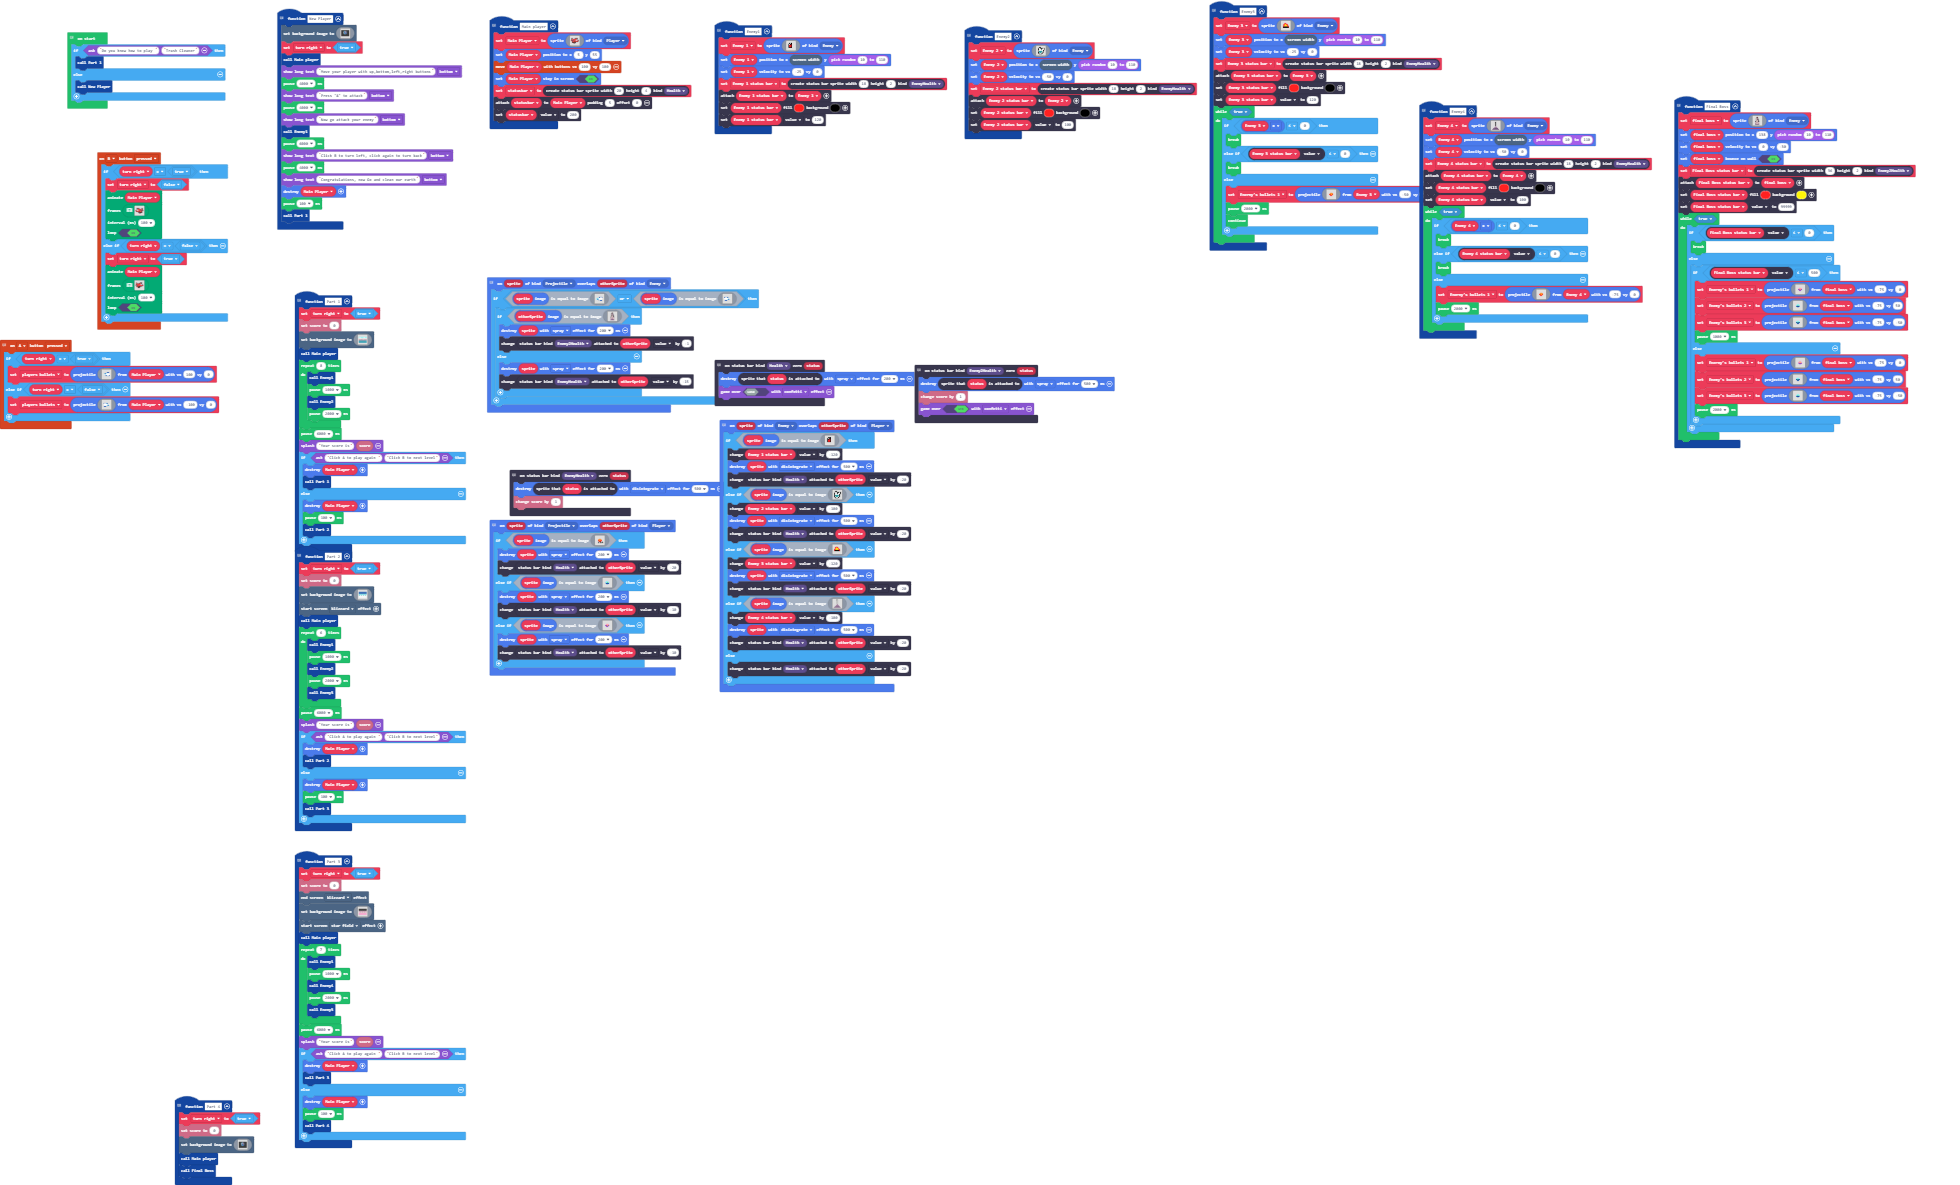
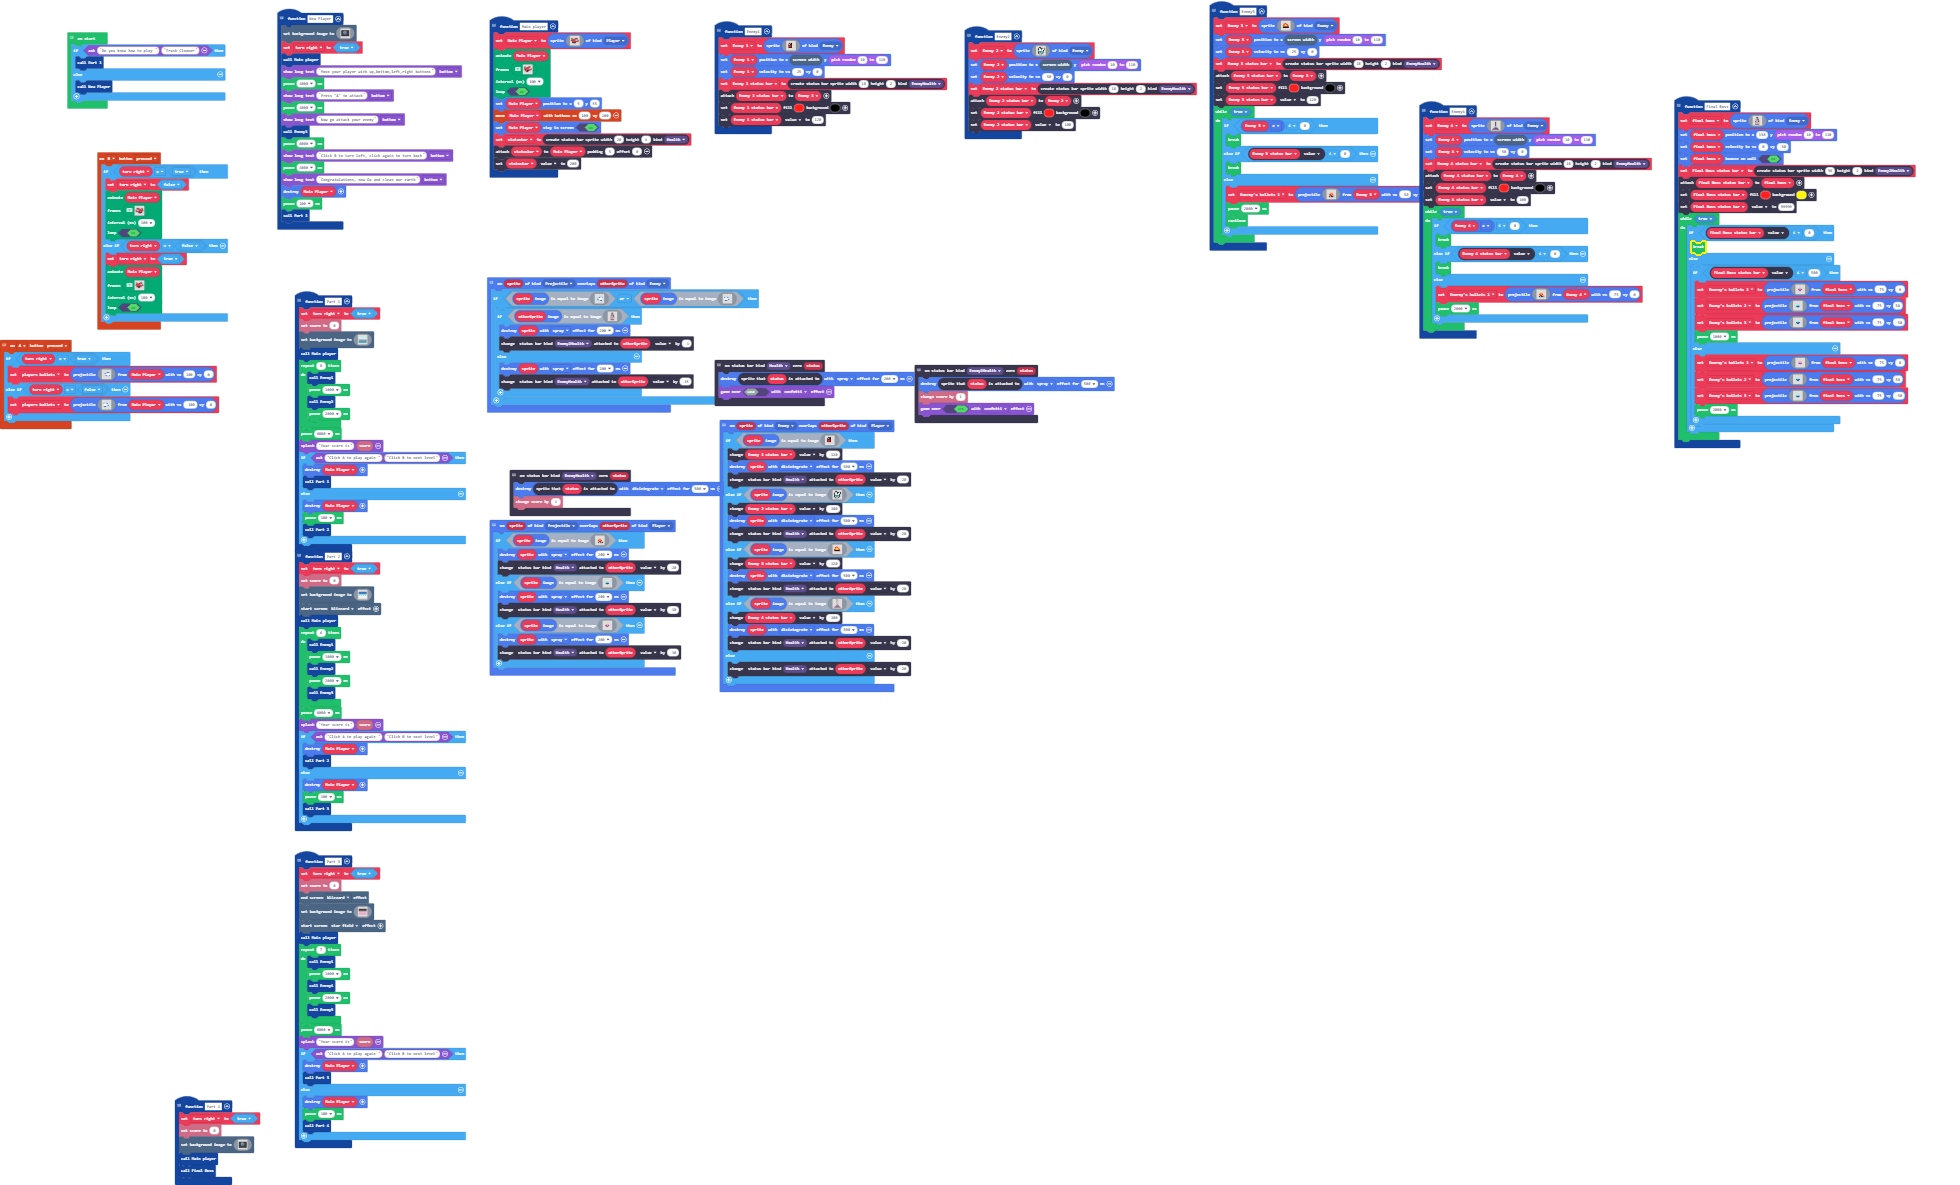
Update pxt.json, main.blocks, main.ts

Changed region(s): [[0.249, 0.0312, 0.3735, 0.1561]]

diff --git a/main.ts b/main.ts
@@ -804,9 +804,9 @@ function Enemy4 () {
                 . . . . 2 2 2 5 5 2 2 2 . . . . 
                 . . . . . 2 2 2 2 2 2 . . . . . 
                 . . . . . . 2 2 2 2 . . . . . . 
-                . . . . . . . . . . . . . . . . 
-                . . . . . . . . . . . . . . . . 
-                . . . . . . . . . . . . . . . . 
+                . . . . f f f . f f f . f f . . 
+                . . . . f . . . f . f . . f . . 
+                . . . . f f f . f f f . . f f . 
                 . . . . . . . . . . . . . . . . 
                 . . . . . . . . . . . . . . . . 
                 `, Enemy_4, -75, 0)
@@ -885,9 +885,9 @@ function Enemy3 () {
                 . . . . 2 2 2 5 5 2 2 2 . . . . 
                 . . . . . 2 2 2 2 2 2 . . . . . 
                 . . . . . . 2 2 2 2 . . . . . . 
-                . . . . . . . . . . . . . . . . 
-                . . . . . . . . . . . . . . . . 
-                . . . . . . . . . . . . . . . . 
+                . . . . f f f . f f f . f f . . 
+                . . . . f . . . f . f . . f . . 
+                . . . . f f f . f f f . . f f . 
                 . . . . . . . . . . . . . . . . 
                 . . . . . . . . . . . . . . . . 
                 `, Enemy_3, -50, 0)
@@ -1567,6 +1567,114 @@ function Main_player () {
         .......ffff2cf..........
         ........fffff...........
         `, SpriteKind.Player)
+    animation.runImageAnimation(
+    Main_Player,
+    [img`
+        ..ccc.........ffffff....
+        ..f4cc.......fcc22ff....
+        ..f44cc...fffccccff.....
+        ..f244cccc22224442cc....
+        ..f224cc2222222244b9c...
+        ..cf2222222222222b999c..
+        .c22c222222222b11199b2c.
+        f22ccccccc222299111b222c
+        fffffcc222c222222222222f
+        .....f2222442222222222f.
+        ....f222244fc2222222ff..
+        ...c222244ffffffffff....
+        ...c2222cfffc2f.........
+        ...ffffffff2ccf.........
+        .......ffff2cf..........
+        ........fffff...........
+        `,img`
+        ..ccc.........ffffff....
+        ..f4cc.......fcc22ff....
+        ..f44cc...fffccccff.....
+        ..f244cccc22224442cc....
+        ..f224cc2222222244b9c...
+        ..cf222222222222b9999c..
+        .c22c222222222911199b2c.
+        f22ccccccc22229911b2222c
+        fffffcc222c222222222222f
+        .....f2224442222222222f.
+        ....f222444fc2222222ff..
+        ...c222444ffffffffff....
+        ...c2222cfffc2f.........
+        ...ffffffff2ccf.........
+        .......ffff2cf..........
+        ........fffff...........
+        `,img`
+        ..ccc..........ffffff...
+        ..f44c.......ffcc22ff...
+        ..f244c...fffccccfff....
+        ..f2244ccc22224442cc....
+        ..cf22cc222222222b99c...
+        .c222222222222b111999c..
+        f222ccccccc22299111bb2c.
+        fffffccc222c22222222222c
+        ...ccc22224422222222222f
+        ...c222244422222222222f.
+        ...c22244cffc2222222ff..
+        ....ccccffffcfffffff....
+        .......ffff2c2f.........
+        .......ffff2ccf.........
+        ........ffffff..........
+        ........................
+        `,img`
+        ..ccc.........fffffff...
+        ..f4cc.......ffcc22ff...
+        ..f44cc...fffccccfff....
+        ..f244cccc22224442cc....
+        ..f224cc2222222244b9c...
+        ..cf2222222222222b999c..
+        .c22c222222222b11199b2c.
+        f22ccccccc222299111b222c
+        fffffcc222c222222222222f
+        .....f2222442222222222f.
+        ....f222244fc2222222ff..
+        ...c222244ffffffffff....
+        ...c2222cfffc2f.........
+        ...ffffffff2ccf.........
+        .......ffff2cf..........
+        ........fffff...........
+        `,img`
+        ..............ffffff....
+        ..fc.........fcc22ff....
+        ..f4c.....fffccccff.....
+        ..f44ccccc22222222cc....
+        ..f244ccc222224442b9c...
+        ..cf24222222222244999c..
+        .ccf2222222222222999b2c.
+        fc22cc22222222b1111b222c
+        f22ccccccc2222991122222f
+        ffffffc222c22222222222f.
+        ....ff222244c2222222ff..
+        ...cf222244fffffffff....
+        ...c222244ffc2f.........
+        ...c2222cfffccf.........
+        ...ffffffff2cf..........
+        ........fff2c...........
+        `,img`
+        ..............ffffff....
+        ..fc.........fccc2ff....
+        ..f4c.....fffccc2ff.....
+        ..f44ccccc22222222cc....
+        ..f244ccc222224442b9c...
+        ..cf24222222222244999c..
+        .ccf2222222222222199b2c.
+        fc22cc22222222b1111b222c
+        f22ccccccc2222991222222f
+        ffffffc222c22222222222f.
+        ....ff222244c2222222ff..
+        ...cf222244fffffffff....
+        ...c222244ffc2f.........
+        ...c2222cfffccf.........
+        ...ffffffff2cf..........
+        ........fff2c...........
+        `],
+    100,
+    true
+    )
     Main_Player.setPosition(5, 55)
     controller.moveSprite(Main_Player, 100, 100)
     Main_Player.setStayInScreen(true)
